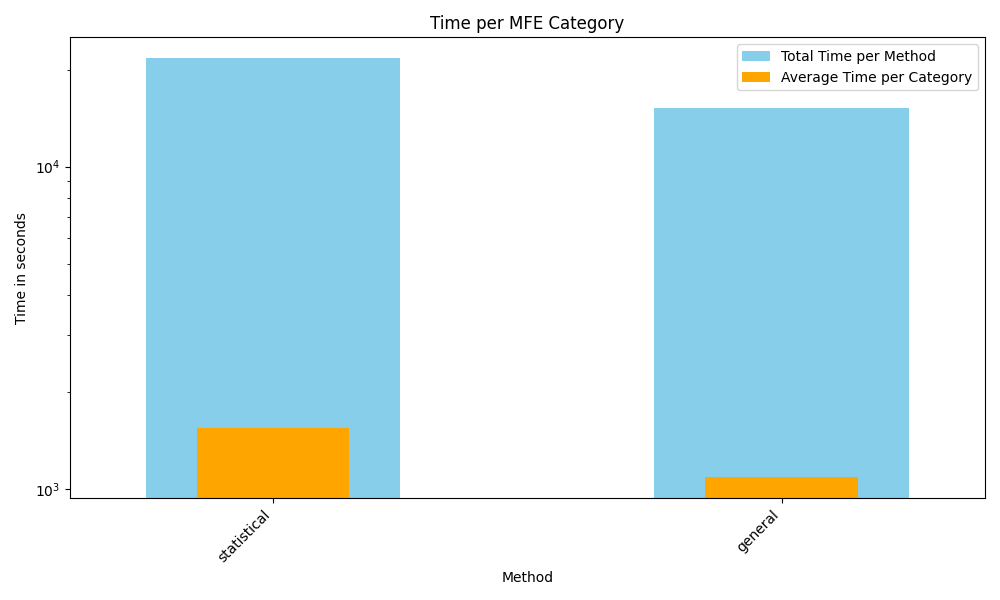
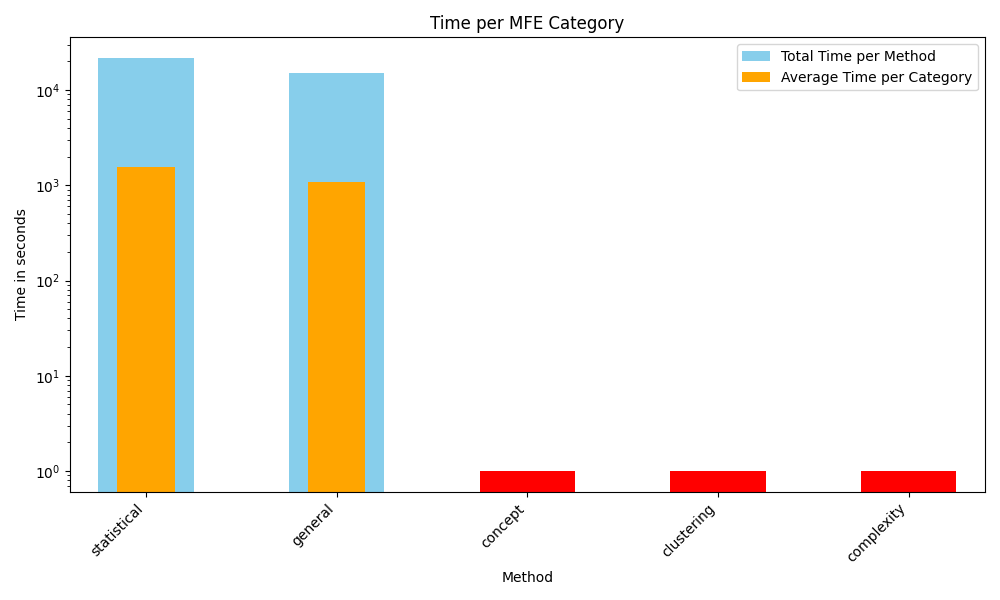
Add OOM Categories in Red

diff --git a/src/Result_Analysis/time_analysis_mfe/time_analysis_fe.py b/src/Result_Analysis/time_analysis_mfe/time_analysis_fe.py
@@ -55,8 +55,6 @@ def main():
                     method_and_dataset = str(method) + " - " + str(dataset)
                     times.update({method_and_dataset: time})
 
-    print(times)
-
     df = pd.DataFrame(list(times.items()), columns=['method_dataset', 'value'])
     df[['method', 'dataset']] = df['method_dataset'].str.split(' - ', expand=True)
     df['dataset'] = df['dataset'].astype(int)
@@ -118,11 +116,19 @@ def main():
     df_mfe['dataset'] = df_mfe['dataset'].astype(int)
 
     time_per_category = df_mfe.groupby("category")["value"].sum().sort_values(ascending=False)
-    average_time_per_category = df_mfe.groupby("category")["value"].mean().sort_values(ascending=False)
+    memory_issue_category_names = {"complexity", "clustering", "concept"}
 
-    # Plot
+    memory_issue_categories = pd.Series([1, 1, 1], index=list(memory_issue_category_names))
+    time_per_category = time_per_category._append(memory_issue_categories)
+
+    colors = ['red' if cat in memory_issue_categories else 'skyblue' for cat in time_per_category.index]
+
+    # Step 4: Plot total time per category (bar colors depend on memory issue)
     plt.figure(figsize=(10, 6))
-    time_per_category.plot(kind='bar', color='skyblue', label='Total Time per Method')
+    time_per_category.plot(kind='bar', color=colors, label='Total Time per Method')
+
+    # Step 5: Add average time per category as overlay
+    average_time_per_category = df_mfe.groupby("category")["value"].mean().reindex(time_per_category.index)
     average_time_per_category.plot(kind='bar', width=0.3, color='orange', label='Average Time per Category')
     plt.legend()
     plt.xlabel("Method")
